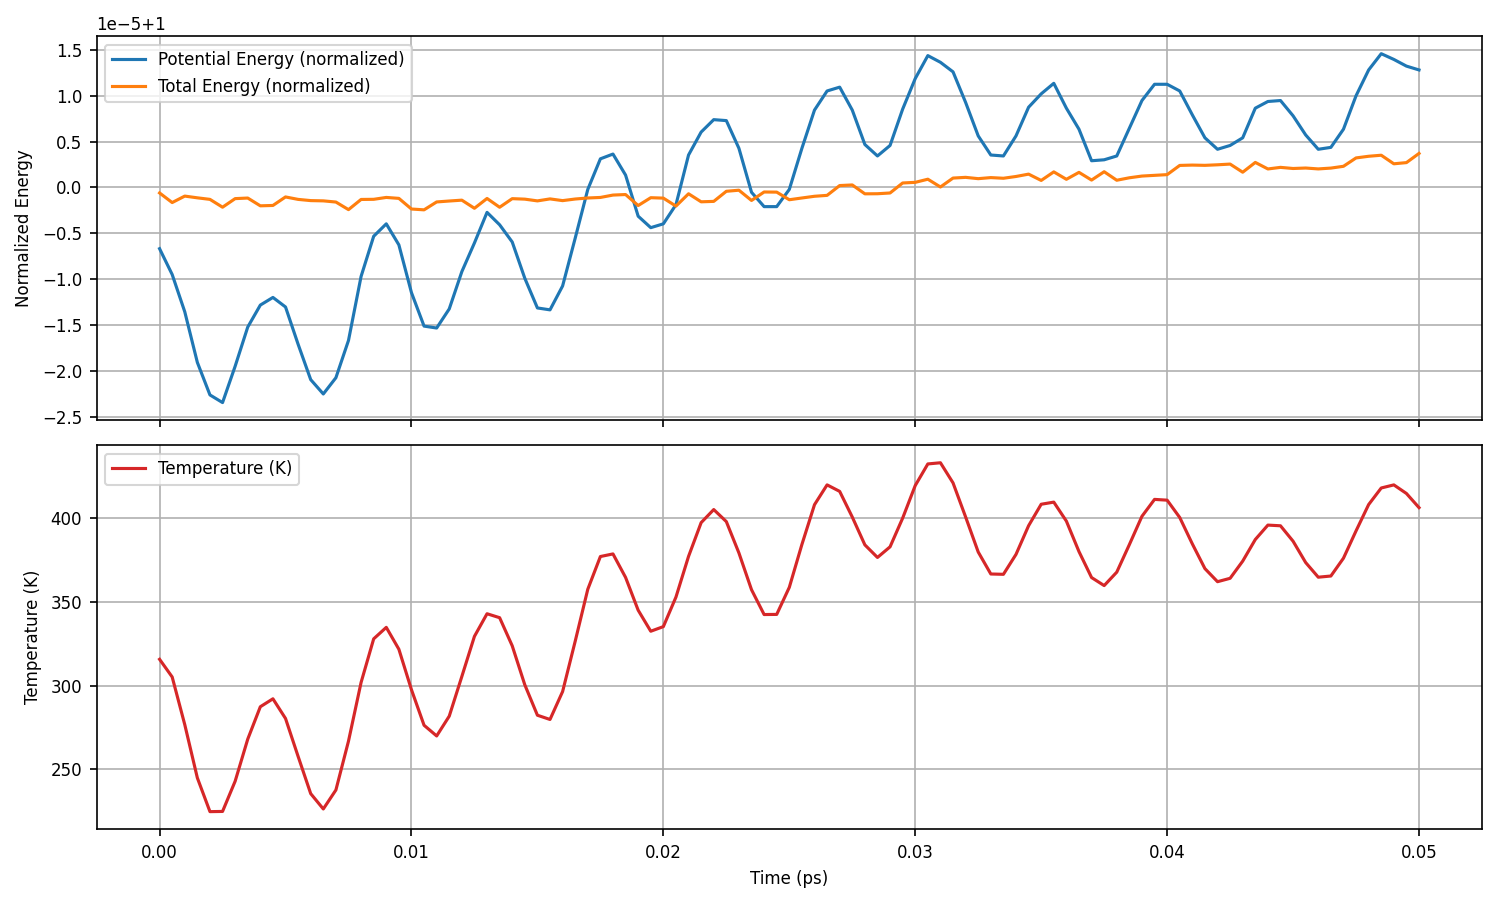
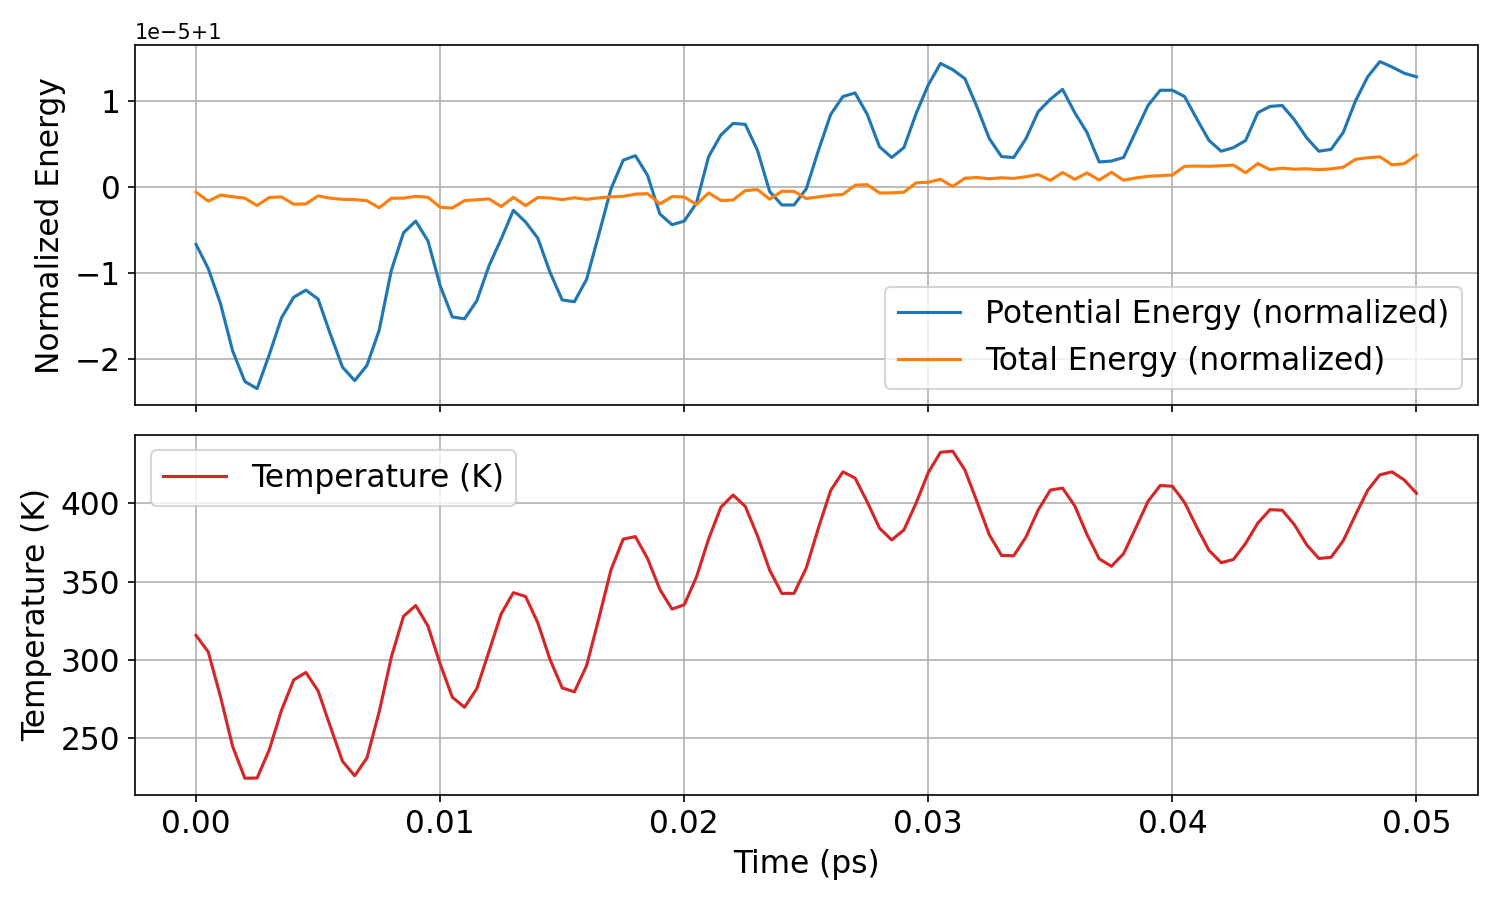
style(plots): increase axis label/tick/legend fontsize to 15 in plot_nvt_trajectory
Default matplotlib sizes were too small once embedded at manuscript figure
scale. Regenerated the real Figure 4 panel-b plot from the already-committed
nacl_water_nvt.traj (no re-simulation needed, same trajectory data).

diff --git a/ui_state/tools/plot_nvt_trajectory.py b/ui_state/tools/plot_nvt_trajectory.py
@@ -1,49 +1,58 @@
 def plot_nvt_trajectory(traj_file: str, output_png: str, timestep_fs: float = 0.5) -> str:
-    """Read an ASE .traj file and plot normalized potential and total energies and temperature vs time.
-
-    Parameters:
-    traj_file (str): Path to the ASE trajectory file (.traj).
-    output_png (str): Path to save the output plot PNG file.
-    timestep_fs (float): Timestep between frames in femtoseconds (default 0.5 fs).
-
-    Returns:
-    str: The output PNG file path.
     """
-    import ase.io
+    Plot potential energy, total energy, and temperature vs time from an ASE
+    NVT/NPT trajectory.
+
+    Reads the trajectory with ase.io.read, extracts per-frame potential energy
+    (get_potential_energy), total energy (get_kinetic_energy + get_potential_energy),
+    and temperature (get_temperature), builds a time axis in picoseconds from
+    timestep_fs, and saves a two-panel figure: normalized potential/total energy
+    on top, temperature on the bottom.
+
+    Parameters
+    ----------
+    traj_file   : str   -- path to the input ASE .traj trajectory file
+    output_png  : str   -- path to save the output plot PNG file
+    timestep_fs : float -- MD timestep in femtoseconds used during the simulation
+                            (default 0.5), used to build the time axis
+
+    Returns
+    -------
+    str -- path to the saved PNG file
+    """
     import matplotlib
-    matplotlib.use('Agg')  # thread-safe non-GUI backend; must precede pyplot import
+    matplotlib.use("Agg")
     import matplotlib.pyplot as plt
     import numpy as np
+    from ase.io import read
 
-    # Read all frames from the trajectory
-    frames = ase.io.read(traj_file, index=':')
+    frames = read(traj_file, index=":")
 
-    # Extract energies and temperature
-    pot_energies = np.array([frame.get_potential_energy() for frame in frames])
-    kin_energies = np.array([frame.get_kinetic_energy() for frame in frames])
-    total_energies = pot_energies + kin_energies
-    temperatures = np.array([frame.get_temperature() for frame in frames])
+    potential_energies = np.array([f.get_potential_energy() for f in frames])
+    total_energies = np.array(
+        [f.get_kinetic_energy() + f.get_potential_energy() for f in frames]
+    )
+    temperatures = np.array([f.get_temperature() for f in frames])
 
-    # Time axis in picoseconds
     times_ps = np.arange(len(frames)) * timestep_fs / 1000.0
 
-    # Normalize energies by their mean
-    pot_energies_norm = pot_energies / np.mean(pot_energies)
-    total_energies_norm = total_energies / np.mean(total_energies)
+    norm_potential = potential_energies / potential_energies.mean()
+    norm_total = total_energies / total_energies.mean()
 
-    # Plotting
     fig, (ax1, ax2) = plt.subplots(2, 1, figsize=(10, 6), sharex=True)
 
-    ax1.plot(times_ps, pot_energies_norm, label='Normalized Potential Energy')
-    ax1.plot(times_ps, total_energies_norm, label='Normalized Total Energy')
-    ax1.set_ylabel('Normalized Energy (eV)')
-    ax1.legend()
+    ax1.plot(times_ps, norm_potential, label="Potential Energy (normalized)")
+    ax1.plot(times_ps, norm_total, label="Total Energy (normalized)")
+    ax1.set_ylabel("Normalized Energy", fontsize=15)
+    ax1.legend(fontsize=15)
+    ax1.tick_params(axis="both", labelsize=15)
     ax1.grid(True)
 
-    ax2.plot(times_ps, temperatures, label='Temperature')
-    ax2.set_xlabel('Time (ps)')
-    ax2.set_ylabel('Temperature (K)')
-    ax2.legend()
+    ax2.plot(times_ps, temperatures, color="tab:red", label="Temperature (K)")
+    ax2.set_xlabel("Time (ps)", fontsize=15)
+    ax2.set_ylabel("Temperature (K)", fontsize=15)
+    ax2.legend(fontsize=15)
+    ax2.tick_params(axis="both", labelsize=15)
     ax2.grid(True)
 
     plt.tight_layout()

diff --git a/tutorials/plot_nvt_trajectory.py b/tutorials/plot_nvt_trajectory.py
@@ -43,14 +43,16 @@ def plot_nvt_trajectory(traj_file: str, output_png: str, timestep_fs: float = 0.
 
     ax1.plot(times_ps, norm_potential, label="Potential Energy (normalized)")
     ax1.plot(times_ps, norm_total, label="Total Energy (normalized)")
-    ax1.set_ylabel("Normalized Energy")
-    ax1.legend()
+    ax1.set_ylabel("Normalized Energy", fontsize=15)
+    ax1.legend(fontsize=15)
+    ax1.tick_params(axis="both", labelsize=15)
     ax1.grid(True)
 
     ax2.plot(times_ps, temperatures, color="tab:red", label="Temperature (K)")
-    ax2.set_xlabel("Time (ps)")
-    ax2.set_ylabel("Temperature (K)")
-    ax2.legend()
+    ax2.set_xlabel("Time (ps)", fontsize=15)
+    ax2.set_ylabel("Temperature (K)", fontsize=15)
+    ax2.legend(fontsize=15)
+    ax2.tick_params(axis="both", labelsize=15)
     ax2.grid(True)
 
     plt.tight_layout()
